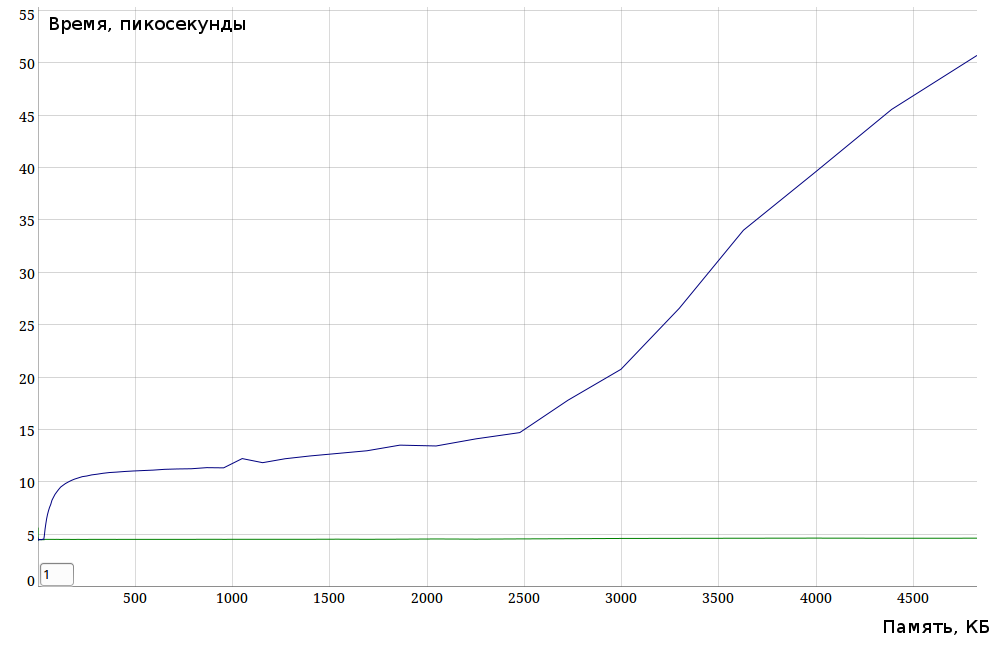
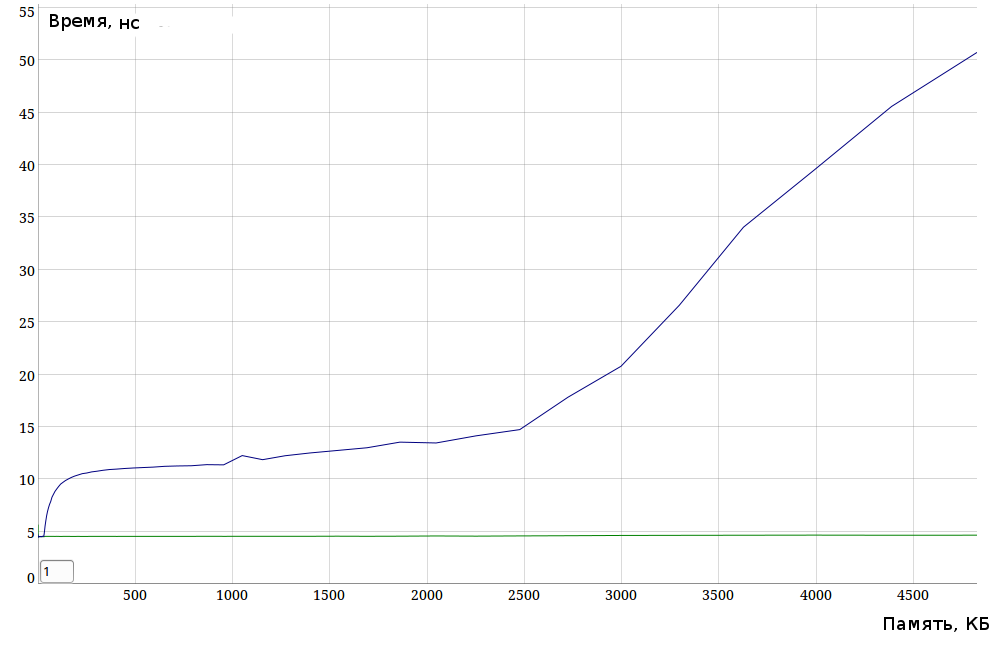
Fix

diff --git a/cache.cpp b/cache.cpp
@@ -8,7 +8,7 @@
 
 namespace {
     unsigned const INITIAL_SIZE_MEMORY = 1024;
-    unsigned const FINAL_SIZE_MEMORY = 5 * 1024 * 1024;
+    unsigned const FINAL_SIZE_MEMORY = 16 * 1024 * 1024;
     unsigned const NUM_REPEAT = 20 * 20 * 20;
     unsigned const NUM_CYCLES = 500;
 }
@@ -22,7 +22,7 @@ int getRandomValue(int i) {
     return std::rand()%i;
 }
 
-double milliToPico(double value) {
+double secToNano(double value) {
     return value * 1000000000;
 }
 
@@ -52,7 +52,7 @@ double getAvgTimeAccess(Node* list) {
 
     end = std::chrono::system_clock::now();
     std::chrono::duration<double> elapsed_seconds = end - start;
-    return milliToPico(elapsed_seconds.count() / (NUM_REPEAT * NUM_CYCLES));
+    return secToNano(elapsed_seconds.count() / (NUM_REPEAT * NUM_CYCLES));
 }
 
 int main() {
